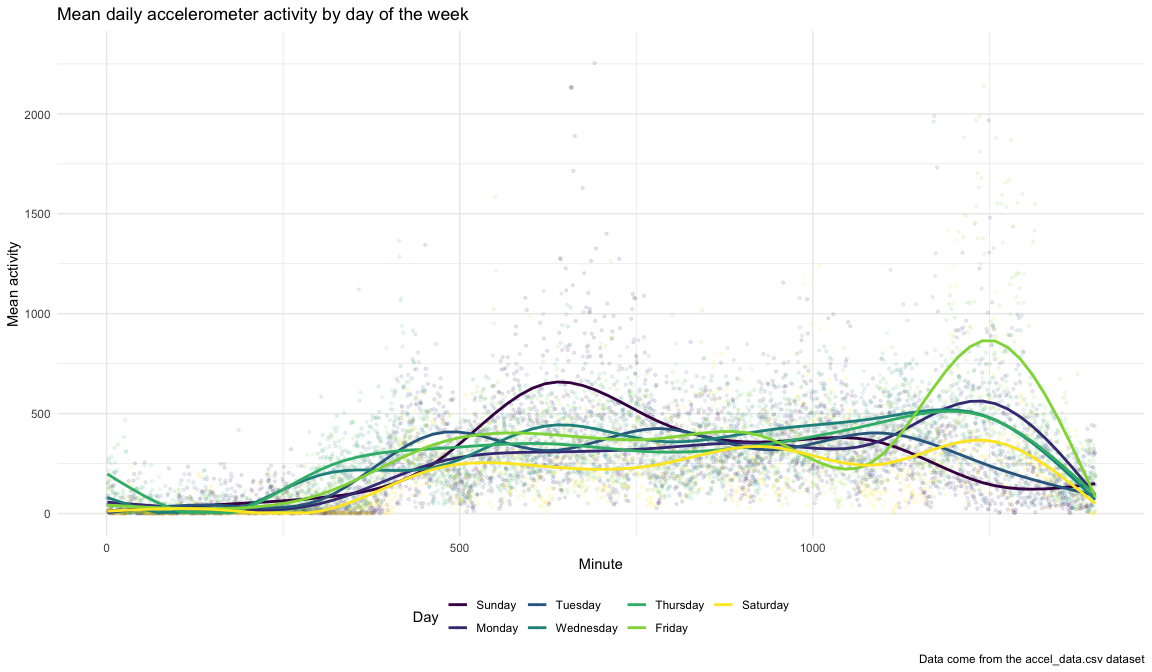
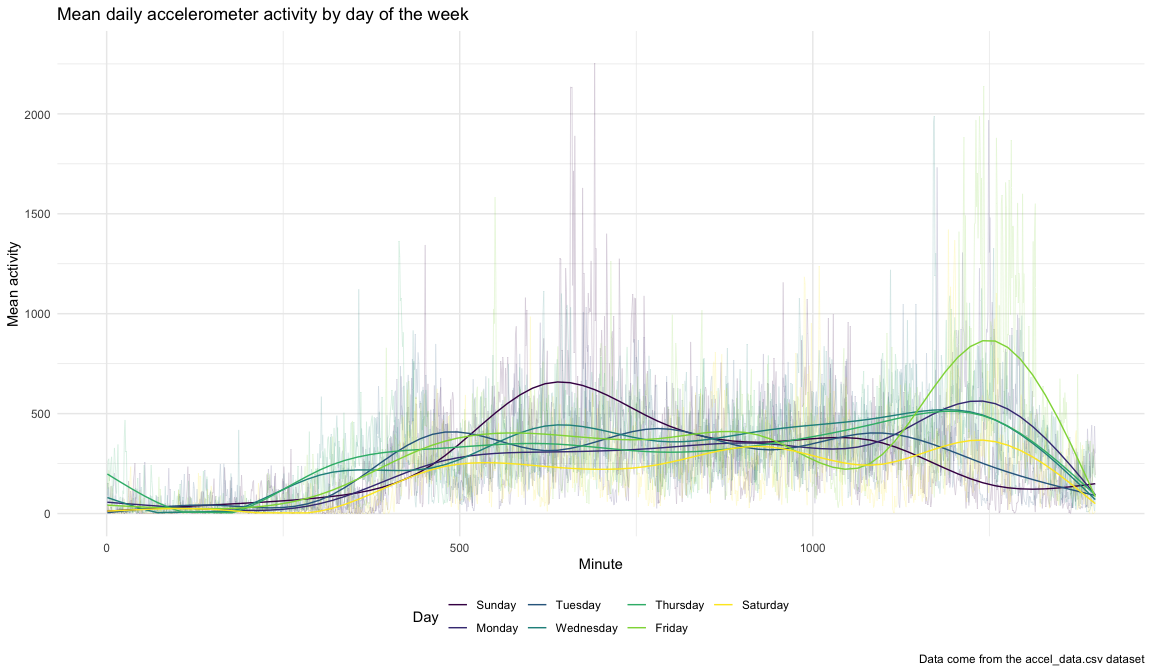
Fixing problem 2 data cleaning and plotting

Changed region(s): [[0.0938, 0.1875, 0.9688, 0.7812]]

diff --git a/p8105_hw3_my2731.md b/p8105_hw3_my2731.md
@@ -179,7 +179,8 @@ congestive heart failure (CHF).
 We will apply snake case to all the variables, categorize and re-level
 the `day` variable according to the days of the week, and add a logical
 `weekend` variable that is `TRUE` if `day == c("Saturday", "Sunday")`
-and `FALSE` otherwise.
+and `FALSE` otherwise. We will then use `pivot_longer` to consolidate
+all `activity_*` columns into unique observations.
 
 ``` r
 accel_data =
@@ -188,104 +189,80 @@ accel_data =
   mutate(
     weekend = ifelse(day == "Saturday" | day == "Sunday", TRUE, FALSE),
     day = factor(day, levels = c("Sunday", "Monday", "Tuesday", "Wednesday", 
-                                 "Thursday", "Friday", "Saturday"))) %>% 
-  relocate(weekend, .after = day)
+                                 "Thursday", "Friday", "Saturday"))
+    ) %>% 
+  pivot_longer(
+    activity_1:activity_1440,
+    names_to = "minute",
+    values_to = "activity",
+    names_prefix = "activity_") %>% 
+  mutate(minute = as.numeric(minute))
 
 accel_data
 ```
 
-    ## # A tibble: 35 × 1,444
-    ##     week day_id day      weekend activ…¹ activ…² activ…³ activ…⁴ activ…⁵ activ…⁶
-    ##    <dbl>  <dbl> <fct>    <lgl>     <dbl>   <dbl>   <dbl>   <dbl>   <dbl>   <dbl>
-    ##  1     1      1 Friday   FALSE      88.4    82.2    64.4    70.0    75.0    66.3
-    ##  2     1      2 Monday   FALSE       1       1       1       1       1       1  
-    ##  3     1      3 Saturday TRUE        1       1       1       1       1       1  
-    ##  4     1      4 Sunday   TRUE        1       1       1       1       1       1  
-    ##  5     1      5 Thursday FALSE      47.4    48.8    46.9    35.8    49.0    44.8
-    ##  6     1      6 Tuesday  FALSE      64.8    59.5    73.7    45.7    42.4    58.4
-    ##  7     1      7 Wednesd… FALSE      71.1   103.     68.5    45.4    37.8    18.3
-    ##  8     2      8 Friday   FALSE     675     542    1010     779     509     106  
-    ##  9     2      9 Monday   FALSE     291     335     393     335     263     675  
-    ## 10     2     10 Saturday TRUE       64      11       1       1       1       1  
-    ## # … with 25 more rows, 1,434 more variables: activity_7 <dbl>,
-    ## #   activity_8 <dbl>, activity_9 <dbl>, activity_10 <dbl>, activity_11 <dbl>,
-    ## #   activity_12 <dbl>, activity_13 <dbl>, activity_14 <dbl>, activity_15 <dbl>,
-    ## #   activity_16 <dbl>, activity_17 <dbl>, activity_18 <dbl>, activity_19 <dbl>,
-    ## #   activity_20 <dbl>, activity_21 <dbl>, activity_22 <dbl>, activity_23 <dbl>,
-    ## #   activity_24 <dbl>, activity_25 <dbl>, activity_26 <dbl>, activity_27 <dbl>,
-    ## #   activity_28 <dbl>, activity_29 <dbl>, activity_30 <dbl>, …
+    ## # A tibble: 50,400 × 6
+    ##     week day_id day    weekend minute activity
+    ##    <dbl>  <dbl> <fct>  <lgl>    <dbl>    <dbl>
+    ##  1     1      1 Friday FALSE        1     88.4
+    ##  2     1      1 Friday FALSE        2     82.2
+    ##  3     1      1 Friday FALSE        3     64.4
+    ##  4     1      1 Friday FALSE        4     70.0
+    ##  5     1      1 Friday FALSE        5     75.0
+    ##  6     1      1 Friday FALSE        6     66.3
+    ##  7     1      1 Friday FALSE        7     53.8
+    ##  8     1      1 Friday FALSE        8     47.8
+    ##  9     1      1 Friday FALSE        9     55.5
+    ## 10     1      1 Friday FALSE       10     43.0
+    ## # … with 50,390 more rows
 
-The dataset contains 35 observations of 1444 variables, where each row
-describes the activity counts for all minutes of each day. The weekday
-of observation is indicated by `day`, and has a unique `day_id`. `week`
-indicates the week of observation, and the `weekend` indicates whether
-observation falls on a weekend. The variables `activity_*` are the
-activity counts for all 1440 minutes of a 24-hour day, starting at
-midnight.
+The dataset contains 50400 observations of 6 variables, where each row
+describes the activity count for each minute of each 24-hour day,
+starting at midnight.. The weekday of observation is indicated by `day`,
+and has a unique `day_id`. `week` indicates the week of observation, and
+the `weekend` indicates whether observation falls on a weekend.
+
+Notably, we can see that many `activity` values take on a value of `1`.
+This may be indicative of a null or missing value, or no recorded
+activity for a given minute. Since we do not have any further
+information about the accelerometer data, we will leave these values as
+is.
 
 ### Aggregate across minutes
 
-Using `rowSums` and `across` within the `mutate` function, we can
-compute the sum across minutes for each day to get the total activity
-over the day.
+Using `group_by` and `summarise`, we can compute the total activity over
+the day.
 
 ``` r
-accel_data = accel_data %>%
-  mutate(total_activity = rowSums(across(activity_1:activity_1440))) %>% 
-  relocate(total_activity, .after = weekend) 
+total_act = accel_data %>%
+  group_by(day, week) %>% 
+  summarise(total_activity = sum(activity)) %>% 
+  arrange(day) %>% 
+  pivot_wider(week,
+              names_from = day,
+              values_from = total_activity)
 
-accel_data %>% 
-  select(week:total_activity) %>% 
-  rename("Week" = week,
-         "Day ID" = day_id,
-         "Day" = day,
-         "Weekend" = weekend,
-         "Total Activity" = total_activity) %>% 
-  knitr::kable()
+total_act %>% 
+  rename("Week" = week) %>% 
+  knitr::kable(caption = "Total accelerometer activity by day over a 5-week observation period")
 ```
 
-| Week | Day ID | Day       | Weekend | Total Activity |
-|-----:|-------:|:----------|:--------|---------------:|
-|    1 |      1 | Friday    | FALSE   |      480542.62 |
-|    1 |      2 | Monday    | FALSE   |       78828.07 |
-|    1 |      3 | Saturday  | TRUE    |      376254.00 |
-|    1 |      4 | Sunday    | TRUE    |      631105.00 |
-|    1 |      5 | Thursday  | FALSE   |      355923.64 |
-|    1 |      6 | Tuesday   | FALSE   |      307094.24 |
-|    1 |      7 | Wednesday | FALSE   |      340115.01 |
-|    2 |      8 | Friday    | FALSE   |      568839.00 |
-|    2 |      9 | Monday    | FALSE   |      295431.00 |
-|    2 |     10 | Saturday  | TRUE    |      607175.00 |
-|    2 |     11 | Sunday    | TRUE    |      422018.00 |
-|    2 |     12 | Thursday  | FALSE   |      474048.00 |
-|    2 |     13 | Tuesday   | FALSE   |      423245.00 |
-|    2 |     14 | Wednesday | FALSE   |      440962.00 |
-|    3 |     15 | Friday    | FALSE   |      467420.00 |
-|    3 |     16 | Monday    | FALSE   |      685910.00 |
-|    3 |     17 | Saturday  | TRUE    |      382928.00 |
-|    3 |     18 | Sunday    | TRUE    |      467052.00 |
-|    3 |     19 | Thursday  | FALSE   |      371230.00 |
-|    3 |     20 | Tuesday   | FALSE   |      381507.00 |
-|    3 |     21 | Wednesday | FALSE   |      468869.00 |
-|    4 |     22 | Friday    | FALSE   |      154049.00 |
-|    4 |     23 | Monday    | FALSE   |      409450.00 |
-|    4 |     24 | Saturday  | TRUE    |        1440.00 |
-|    4 |     25 | Sunday    | TRUE    |      260617.00 |
-|    4 |     26 | Thursday  | FALSE   |      340291.00 |
-|    4 |     27 | Tuesday   | FALSE   |      319568.00 |
-|    4 |     28 | Wednesday | FALSE   |      434460.00 |
-|    5 |     29 | Friday    | FALSE   |      620860.00 |
-|    5 |     30 | Monday    | FALSE   |      389080.00 |
-|    5 |     31 | Saturday  | TRUE    |        1440.00 |
-|    5 |     32 | Sunday    | TRUE    |      138421.00 |
-|    5 |     33 | Thursday  | FALSE   |      549658.00 |
-|    5 |     34 | Tuesday   | FALSE   |      367824.00 |
-|    5 |     35 | Wednesday | FALSE   |      445366.00 |
+| Week | Sunday |    Monday |  Tuesday | Wednesday | Thursday |   Friday | Saturday |
+|-----:|-------:|----------:|---------:|----------:|---------:|---------:|---------:|
+|    1 | 631105 |  78828.07 | 307094.2 |    340115 | 355923.6 | 480542.6 |   376254 |
+|    2 | 422018 | 295431.00 | 423245.0 |    440962 | 474048.0 | 568839.0 |   607175 |
+|    3 | 467052 | 685910.00 | 381507.0 |    468869 | 371230.0 | 467420.0 |   382928 |
+|    4 | 260617 | 409450.00 | 319568.0 |    434460 | 340291.0 | 154049.0 |     1440 |
+|    5 | 138421 | 389080.00 | 367824.0 |    445366 | 549658.0 | 620860.0 |     1440 |
 
-The table above shows the totals for each day. From first glance, we see
-that the total activity is higher on weekends compared to the weekdays.
-We can also see that as the weeks progress, activity levels appear to
-slightly decrease.
+Total accelerometer activity by day over a 5-week observation period
+
+The table above shows the total activity for each day, by week. From
+first glance, we see that the total activity is higher on Friday and
+weekends compared to the weekdays. We can also see that as the weeks
+progress, activity levels appear to slightly decrease. For weeks 4 and 5
+on Saturday, the total activity level is 1440, which may be indicative
+of no accelerometer data being recorded on these two days.
 
 ### Plotting activity through the day
 
@@ -295,24 +272,39 @@ minute of the day, for each day of the week.
 
 ``` r
 daily_activity = accel_data %>% 
-  pivot_longer(
-    activity_1:activity_1440,
-    names_to = "minute",
-    values_to = "activity",
-    names_prefix = "activity_") %>% 
-  mutate(minute = as.numeric(minute)) %>% 
   group_by(day, minute) %>% 
   summarise(mean_activity = mean(activity))
+
+daily_activity
 ```
 
+    ## # A tibble: 10,080 × 3
+    ## # Groups:   day [7]
+    ##    day    minute mean_activity
+    ##    <fct>   <dbl>         <dbl>
+    ##  1 Sunday      1           9.4
+    ##  2 Sunday      2          46  
+    ##  3 Sunday      3          15.6
+    ##  4 Sunday      4           1  
+    ##  5 Sunday      5           1  
+    ##  6 Sunday      6           1  
+    ##  7 Sunday      7          33.4
+    ##  8 Sunday      8           1  
+    ##  9 Sunday      9           1  
+    ## 10 Sunday     10           1  
+    ## # … with 10,070 more rows
+
 Based on this data, we can plot the mean 24-hour activity time course
-for each day of the week.
+for each day of the week. Given that there is a lot of noise when
+plotting each minute of the day, we will overlay the line graph with
+`geom_smooth()` to better distinguish daily activity patterns between
+days of the week.
 
 ``` r
 activity_plot = daily_activity %>% 
   ggplot(aes(x = minute, y = mean_activity, color = day)) + 
-  geom_point(alpha = 0.1, size = 0.8) + 
-  geom_smooth(se = FALSE) + 
+  geom_line(alpha = 0.2, size = 0.3) +  
+  geom_smooth(se = FALSE, size = 0.5) +
   labs(
     x = "Minute",
     y = "Mean activity",
@@ -458,13 +450,10 @@ janjul_p = ny_noaa %>%
     x = "Year",
     y = "Average daily maximum temperature (°C)",
     title = "Average daily maximum temperature in New York State, 1981 to 2010",
-    caption = "Data come from the rnoaa package"
+    caption = "Each colour line denotes a unique weather station. Data come from the rnoaa package"
   ) + 
   viridis::scale_color_viridis(discrete = TRUE) + 
-  theme(legend.key.height = unit(0.05, "in"),
-        legend.key.width = unit(0.1, "in"), 
-        legend.text = element_text(size = 4)) + 
-  guides(col = guide_legend(ncol = 25)) +
+  theme(legend.position = "none") +
   facet_grid(. ~ month, scales = "free") 
 
 janjul_p
